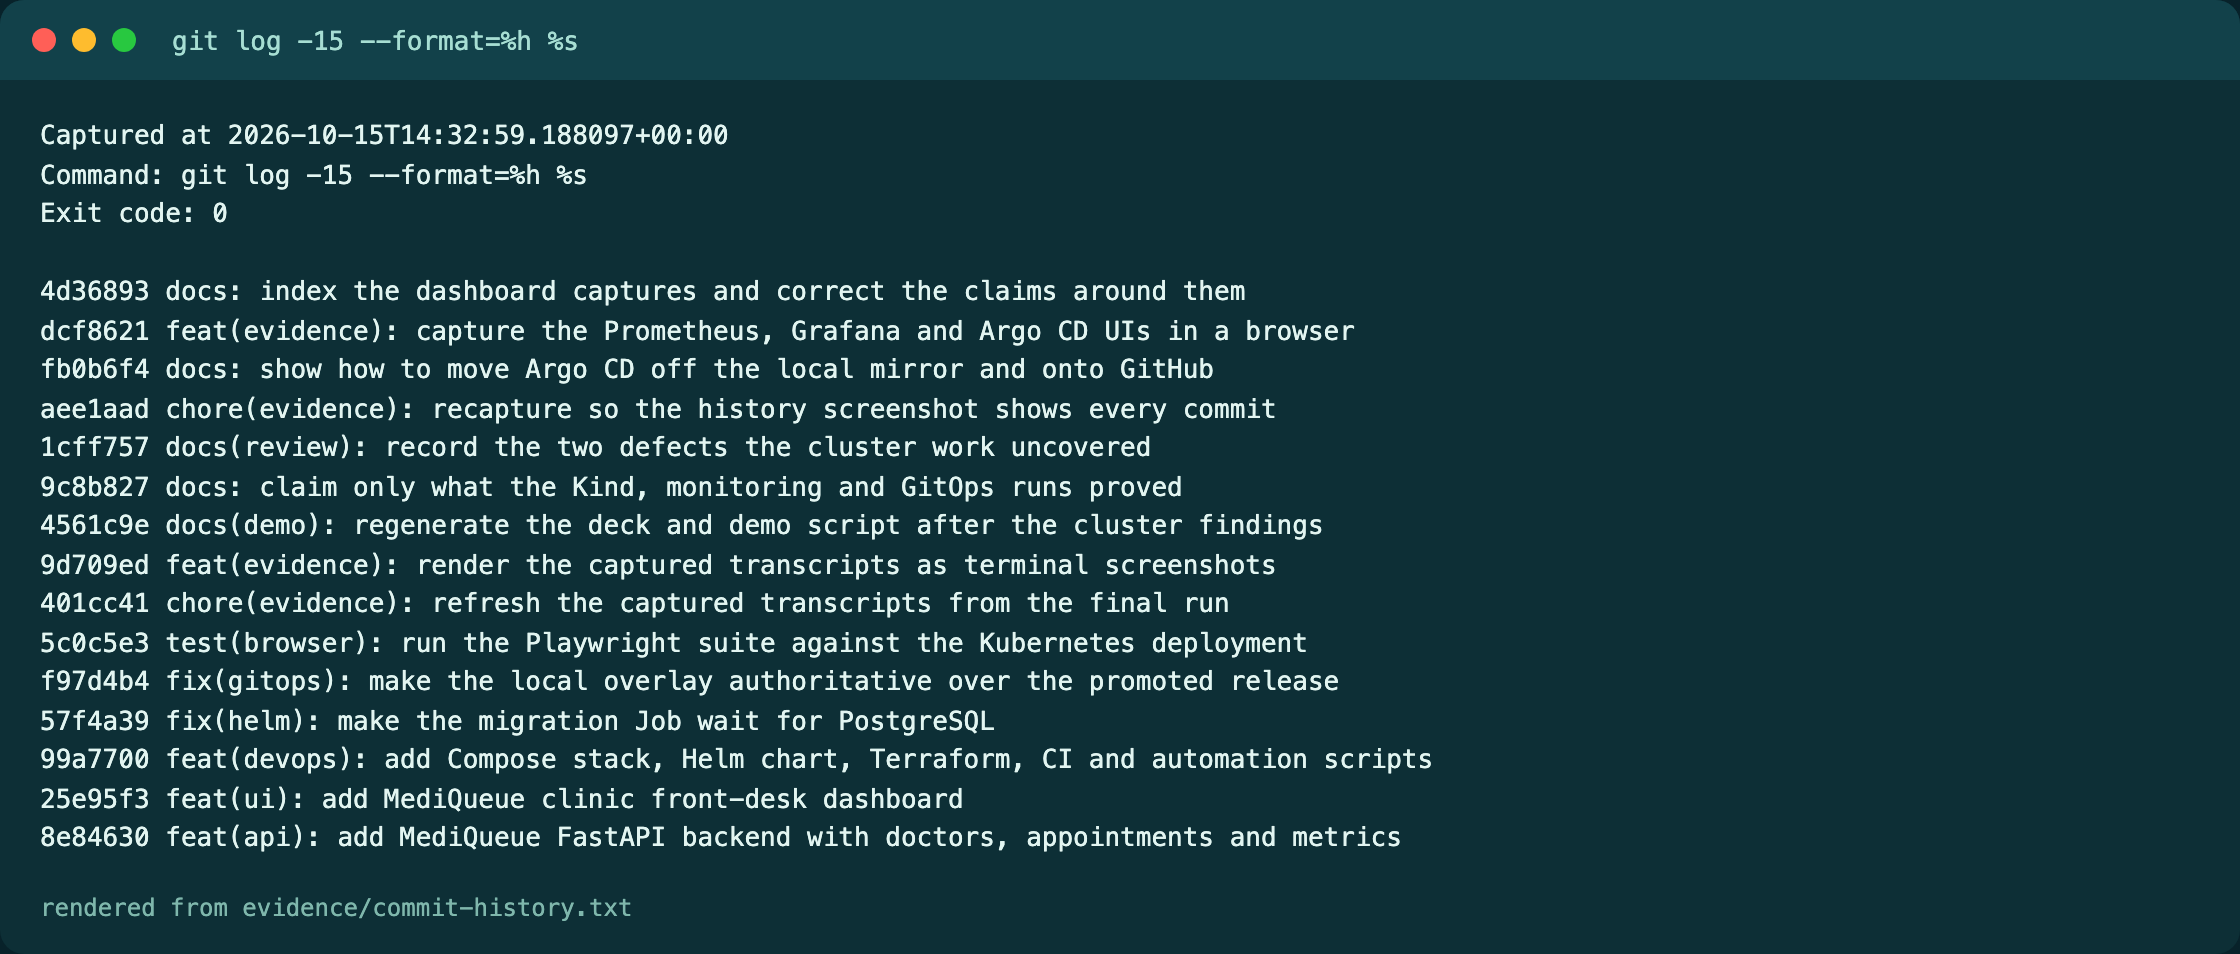
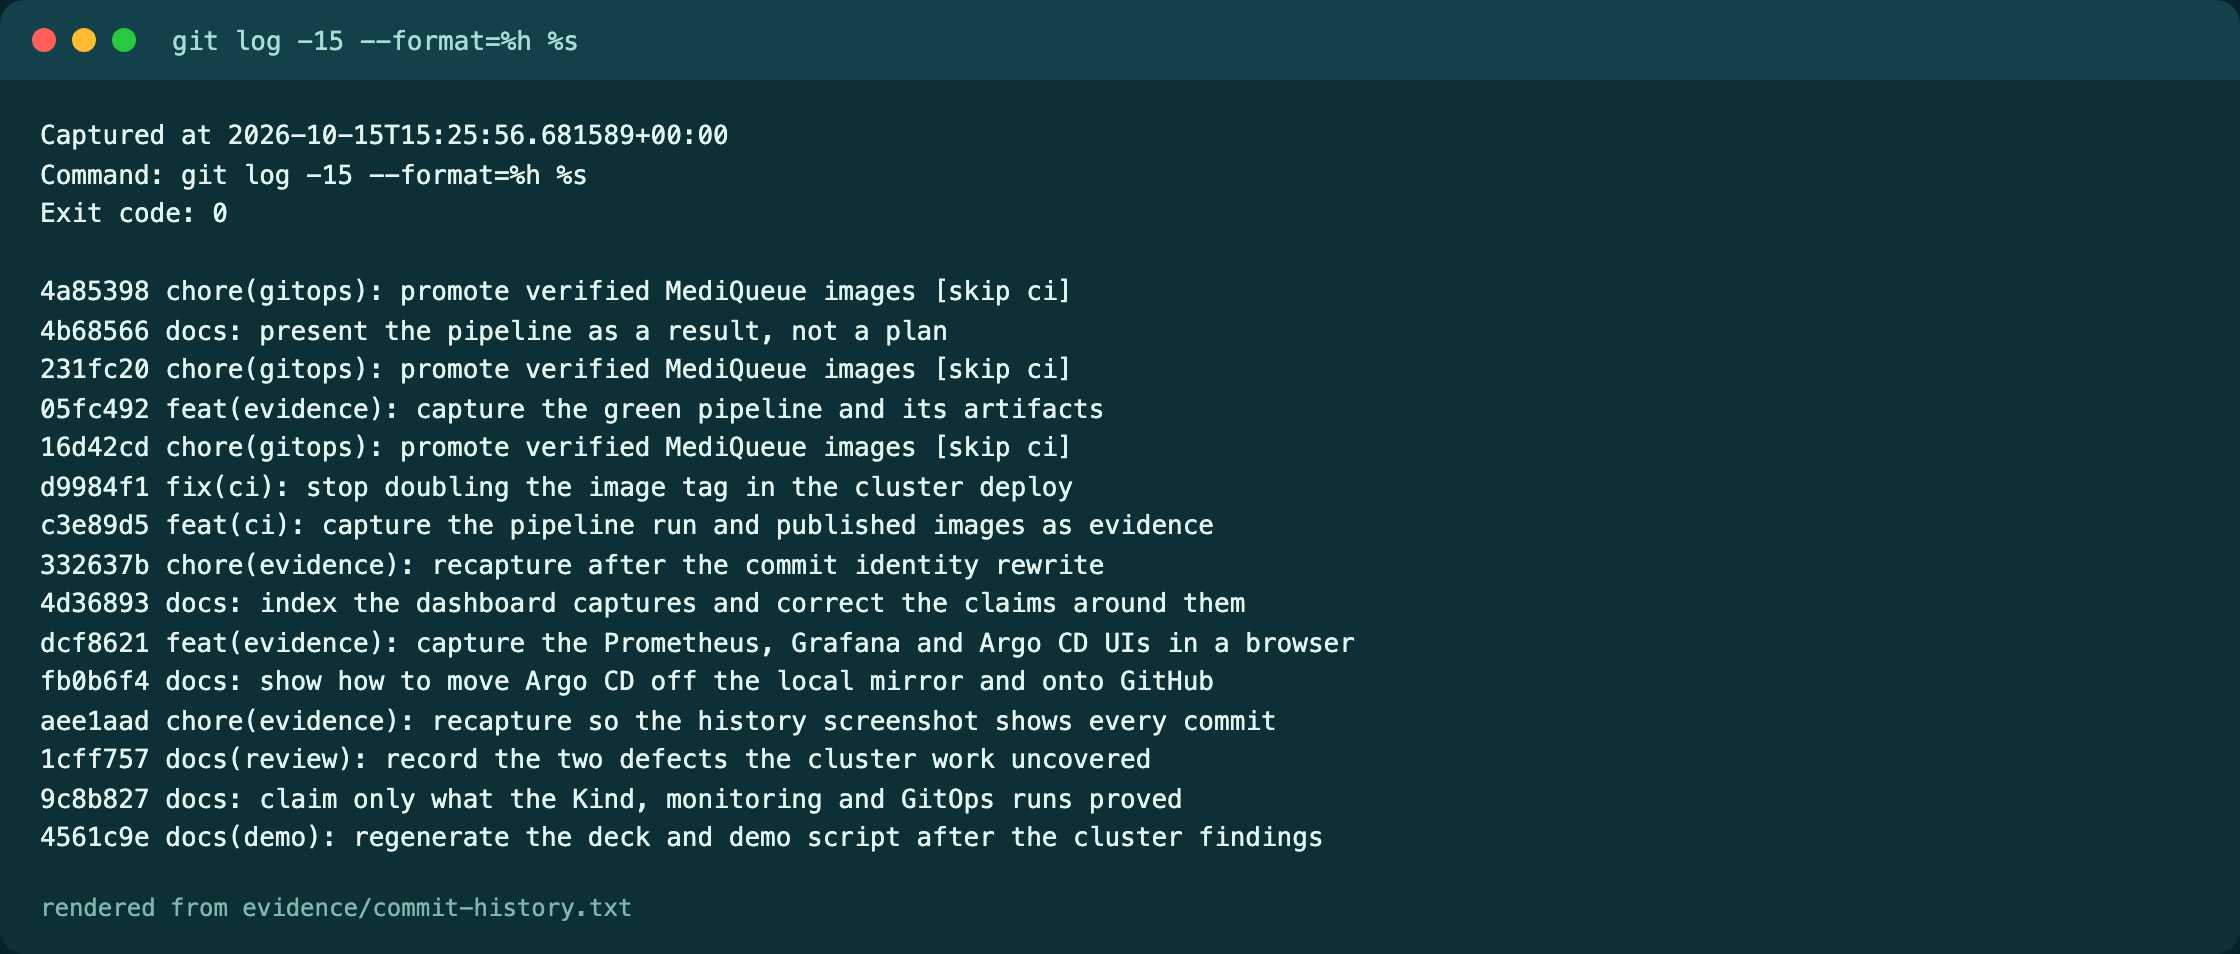
chore(gitops): reconcile from GitHub and refresh the captures
Argo CD now tracks the real repository rather than a local mirror. The
Application renders helm/mediqueue from main at
https://github.com/khushi-infinity/mediqueue.git and settles at Synced and
Healthy on the commit the pipeline itself promoted, so the captured run
shows github-actions[bot] as the author of the revision in the cluster.
The mirror is kept in the documentation as the offline path only.

Refreshing the evidence after that re-captures the transcript set and the
commit history, which now lists the CI commits as well.

Changed region(s): [[0.0, 0.2736, 0.625, 0.9119], [0.1875, 0.1216, 0.2812, 0.152]]

diff --git a/LOCAL-REVIEW.md b/LOCAL-REVIEW.md
@@ -24,7 +24,7 @@ found and fixed, and what remains unproven.
 | Autoscaling | `kubectl get hpa` after the load test | Backend scaled 2 → 3, then back to 2 |
 | Grafana | `/api/health`, dashboard search | 11.6.0 healthy, dashboard provisioned |
 | Failure lab | `python3 scripts/troubleshooting-check.py` | Diagnosed, repaired, cleaned up |
-| GitOps | `bash scripts/local-gitops.sh` | Application `Synced` + `Healthy` |
+| GitOps | `kubectl apply -f gitops/application.yaml` | Application `Synced` + `Healthy` at the pushed revision |
 | CI pipeline | `git push origin main` | Both jobs green; both Trivy scans clean |
 | CI artifacts | `gh run download 38755163712` | 26 tests, 17 browser checks, 0 findings |
 | Terminal screenshots | `node scripts/render-evidence.mjs` | 20 PNGs rendered from the transcripts |
@@ -110,11 +110,11 @@ Stated plainly, because an unevidenced claim is worse than a missing one:
 - **AWS is not deployed.** Terraform is formatted and validated only. No plan,
   apply or destroy output from a real account exists, so no VPC or EKS console
   screenshots are present.
-- **Argo CD is verified locally, not in production.** It reconciled this chart
-  from a local mirror of the repository on a Kind cluster and reached
-  `Synced`/`Healthy`. The committed Application points at GitHub, but the
-  captured sync came from a mirror through `ARGO_REPO_URL`, so no sync from
-  GitHub itself is recorded here.
+- **Argo CD is verified locally, not in production.** It reconciles this chart
+  from the real GitHub repository on a Kind cluster and reaches
+  `Synced`/`Healthy` at the pushed revision. A production cluster would need the
+  same plus credentials for a private repository; this one is public, so the sync
+  carries no credentials at all.
 - **The autoscaler was observed scaling up and back down, but not under
   production load.** Two replicas became three at 55% CPU and returned to two.
   That is a real observation on a single node, not a capacity claim.

diff --git a/README.md b/README.md
@@ -282,8 +282,20 @@ The GitOps demonstration pulls the scanned registry images by immutable SHA.
 For AWS, replace the local networking values with `values-aws.yaml` and configure
 the cloud cluster destination.
 
-Until the repository is pushed to GitHub, GitOps can still be verified against
-any reachable clone of it by overriding the tracked repository:
+Argo CD tracks the real repository, so applying the committed Application is all
+that is needed:
+
+```bash
+bash scripts/local-gitops.sh
+```
+
+It renders `helm/mediqueue` from `main` at
+`https://github.com/khushi-infinity/mediqueue.git` and reaches
+`Synced`/`Healthy` at the pushed revision, which is what `evidence/argocd.json`
+records. The repository is public, so no credentials are involved.
+
+To rehearse GitOps offline — before a push, or without network access — override
+the tracked repository with any reachable clone:
 
 ```bash
 git clone --bare . /tmp/gitserve/mediqueue.git
@@ -294,13 +306,6 @@ ARGO_REPO_URL=git://172.29.0.1:9418/mediqueue.git bash scripts/local-gitops.sh
 `172.29.0.1` is the Docker bridge gateway on this machine; substitute the value
 from `docker network inspect kind`. Every other field of the Application,
 including the Helm path and value files, stays exactly as committed.
-
-Once the repository is pushed, point Argo CD at GitHub and stop the mirror:
-
-```bash
-kubectl --context kind-mediqueue -n argocd apply -f gitops/application.yaml
-pkill -f git-daemon
-```
 
 ## AWS Infrastructure
 

diff --git a/demo/WALKTHROUGH.md b/demo/WALKTHROUGH.md
@@ -167,13 +167,14 @@ kubectl --context kind-mediqueue -n mediqueue top pods
 bash scripts/local-gitops.sh
 ```
 
-Argo CD syncs `helm/mediqueue` from `main`, rendering the CI-promoted
-`values-release.json` first and the `values-local.yaml` overlay last, so the
-local cluster uses its loaded images. Show the Application as **Synced** and
-**Healthy**, then change a value in Git and watch self-healing reconcile it.
+Argo CD syncs `helm/mediqueue` from `main` **on GitHub**, rendering the
+CI-promoted `values-release.json` first and the `values-local.yaml` overlay last,
+so the local cluster uses its loaded images. Show the Application as **Synced**
+and **Healthy** with the tracked revision matching the pushed commit, then change
+a value in Git and watch self-healing reconcile it.
 
-If the repository has not been pushed yet, point the Application at a local
-mirror instead: `ARGO_REPO_URL=git://host.docker.internal:9418/mediqueue.git
+Offline, or before a push, the same thing can be rehearsed against a local
+mirror: `ARGO_REPO_URL=git://host.docker.internal:9418/mediqueue.git
 bash scripts/local-gitops.sh` (see the README for the two commands that create
 the mirror).
 

diff --git a/SUBMISSION.md b/SUBMISSION.md
@@ -113,7 +113,7 @@ the raw command output or browser capture exists in [`evidence/`](evidence/READM
 | Ingress reachable at `mediqueue.localhost:8088` | `README.md` (Local Kubernetes) |
 | All pods `Running`, migration Job `Complete` | `evidence/kubernetes.txt`, `evidence/screenshots/kubernetes.png` |
 | HPA observed scaling the backend 2 → 3 and back to 2 | `LOCAL-REVIEW.md` (What Was Actually Run) |
-| Argo CD reconciled the chart to `Synced`/`Healthy` | `evidence/argocd.json`, `evidence/dashboards/argocd-mediqueue.png` |
+| Argo CD reconciled the chart from the pushed GitHub revision | `evidence/argocd.json` (repoURL + revision), `evidence/dashboards/argocd-mediqueue.png` |
 | The UI passes the browser suite on Kubernetes | `evidence/k8s/browser-results.json` |
 | Application screenshot through the Ingress hostname | `evidence/dashboards/app-ingress.png` |
 

diff --git a/evidence/README.md b/evidence/README.md
@@ -52,7 +52,7 @@ rather than scraping output.
 | `terraform-validate.txt` | `terraform validate` on the initialised module tree |
 | `metrics.txt` | The Prometheus exposition from `GET /metrics` |
 | `prometheus-targets.json` | Both backend replicas scraped by the `mediqueue` job |
-| `argocd.json` | The Argo CD Application, its sync and health status |
+| `argocd.json` | The Argo CD Application synced from GitHub, its revision, sync and health |
 | `commit-history.txt` | The commit log |
 | `troubleshooting.txt` | `ImagePullBackOff` and an endpoint-less Service, diagnosed, repaired and cleaned up |
 | `application-desktop.png` | The dashboard at 1440 px against the Compose stack |
